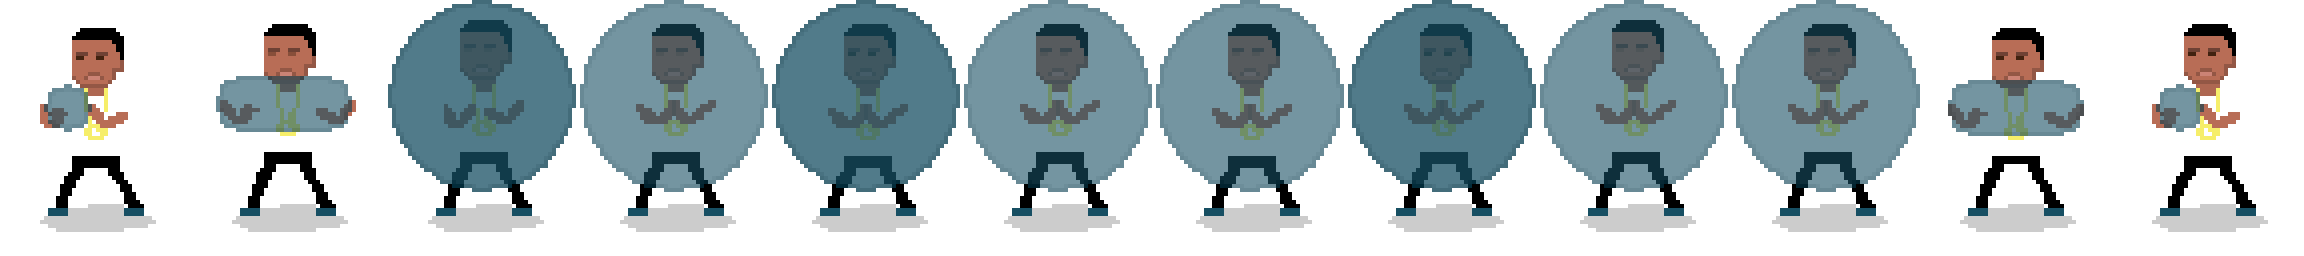
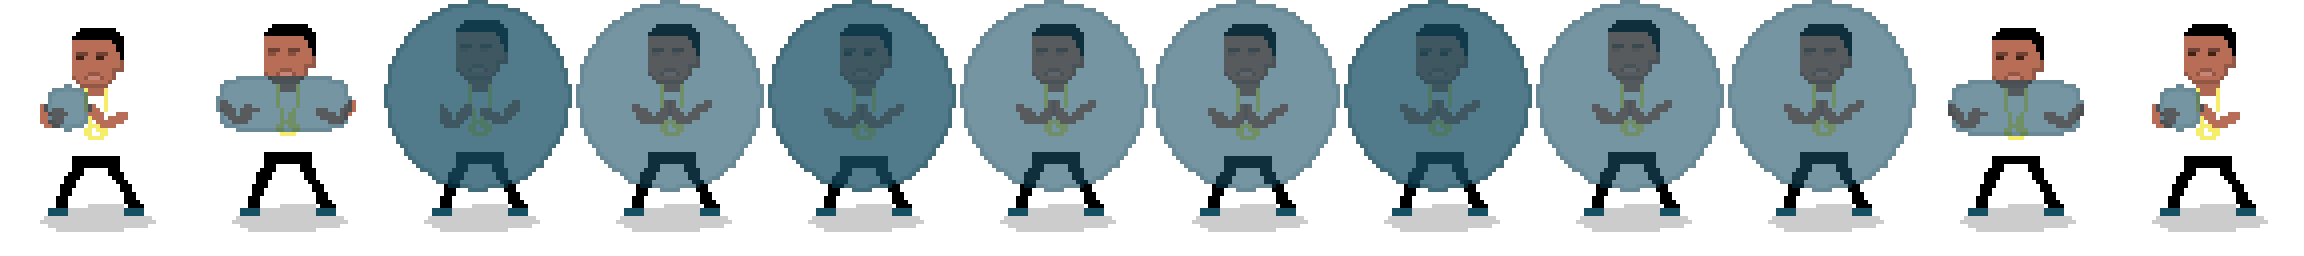
Defend-idle animations added. That's when you don't receive a punch. Gotta think about this one though.

diff --git a/public/js/Fighters/Fighter.js b/public/js/Fighters/Fighter.js
@@ -15,6 +15,7 @@ function Fighter(game, options) {
     this.idle = options.idle;
     this.attack = options.attack;
     this.defend = options.defend;
+    this.defendIdle = options.defendIdle;
     this.hurt = options.hurt;
     this.charName = options.charName;
     this.sprite = game.add.sprite(this.origX, this.origY, this.idle.texture);
@@ -53,7 +54,7 @@ function Fighter(game, options) {
         var animationName = this.sprite.animations.currentAnim.name;
         console.log('Animation: ', animationName, 'ended for', this.charName);
         var name = this.sprite.animations.currentAnim.name;
-        if (name === this.attack.name || name === this.hurt.name || name === this.defend.name) {
+        if (name === this.attack.name || name === this.hurt.name || name === this.defend.name || name === this.defendIdle.name) {
             self.oponent.setIdle(); //Reset
             self.setIdle();
         }
@@ -79,6 +80,13 @@ function Fighter(game, options) {
         this.sprite.loadTexture(this.defend.texture);
         this.sprite.animations.add(this.defend.name);
         this.sprite.animations.play(this.defend.name, this.defend.frameRate, this.defend.loop);
+    };
+
+    this.setDefendIdle = function(){
+        //this.sprite.bringToTop();
+        this.sprite.loadTexture(this.defendIdle.texture);
+        this.sprite.animations.add(this.defendIdle.name);
+        this.sprite.animations.play(this.defendIdle.name, this.defendIdle.frameRate, this.defendIdle.loop);
     };
 
     this.setHurt = function(){

diff --git a/public/js/setup.js b/public/js/setup.js
@@ -39,6 +39,8 @@ $.extend(Setup.prototype, {
 
         this.game.load.spritesheet('drakeDefend', 'assets/imgs/drake_defend_sheet.png', 192, 256, 12);
         this.game.load.spritesheet('meekDefend', 'assets/imgs/meek_defend_sheet.png', 192, 256, 12);
+        this.game.load.spritesheet('drakeDefendIdle', 'assets/imgs/drake_defend_idle_sheet.png', 192, 256, 12);
+        this.game.load.spritesheet('meekDefendIdle', 'assets/imgs/meek_defend_idle_sheet.png', 192, 256, 12);
 
         this.game.load.spritesheet('attackCooldown', 'assets/imgs/attack_cooldown_sheet.png', 76, 76, 18);
         this.game.load.spritesheet('defendCooldown', 'assets/imgs/defend_cooldown_sheet.png', 76, 76, 18);
@@ -105,7 +107,7 @@ $.extend(Setup.prototype, {
             this.defendCooldown = true;
 
             console.log('Defend Pressed');
-            this.drake.setDefend();
+            this.drake.setDefendIdle();
 
             this.defendBtn = game.add.sprite(this.defendBtn.x, this.defendBtn.y, 'defendCooldown');
             this.defendBtn.animations.add('defendCooldown');

diff --git a/public/js/Fighters/DrakeOptions.js b/public/js/Fighters/DrakeOptions.js
@@ -26,6 +26,13 @@ var DrakeOptions = {
         loop: false,
         killOnComplete: false
     },
+    defendIdle: {
+        name: 'defendIdle',
+        texture: 'drakeDefendIdle',
+        frameRate: 8,
+        loop: false,
+        killOnComplete: false
+    },
     hurt: {
         name: 'hurt',
         texture: 'drakePunched',

diff --git a/public/js/Fighters/MeekOptions.js b/public/js/Fighters/MeekOptions.js
@@ -26,6 +26,13 @@ var MeekOptions = {
         loop: false,
         killOnComplete: false
     },
+    defendIdle: {
+        name: 'defendIdle',
+        texture: 'meekDefendIdle',
+        frameRate: 8,
+        loop: false,
+        killOnComplete: false
+    },
     hurt: {
         name: 'hurt',
         texture: 'meekPunched',
